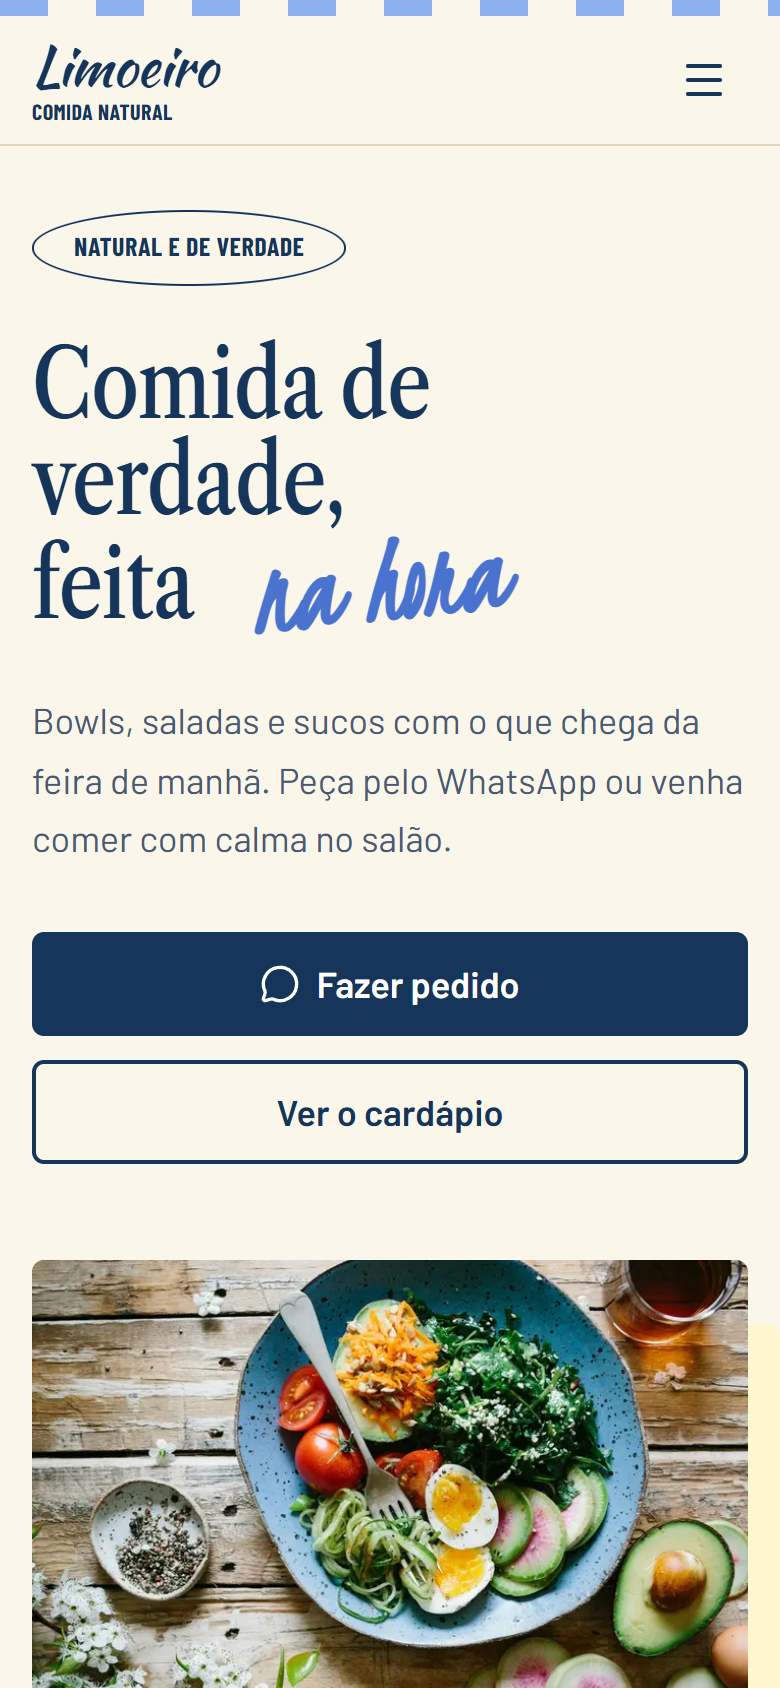
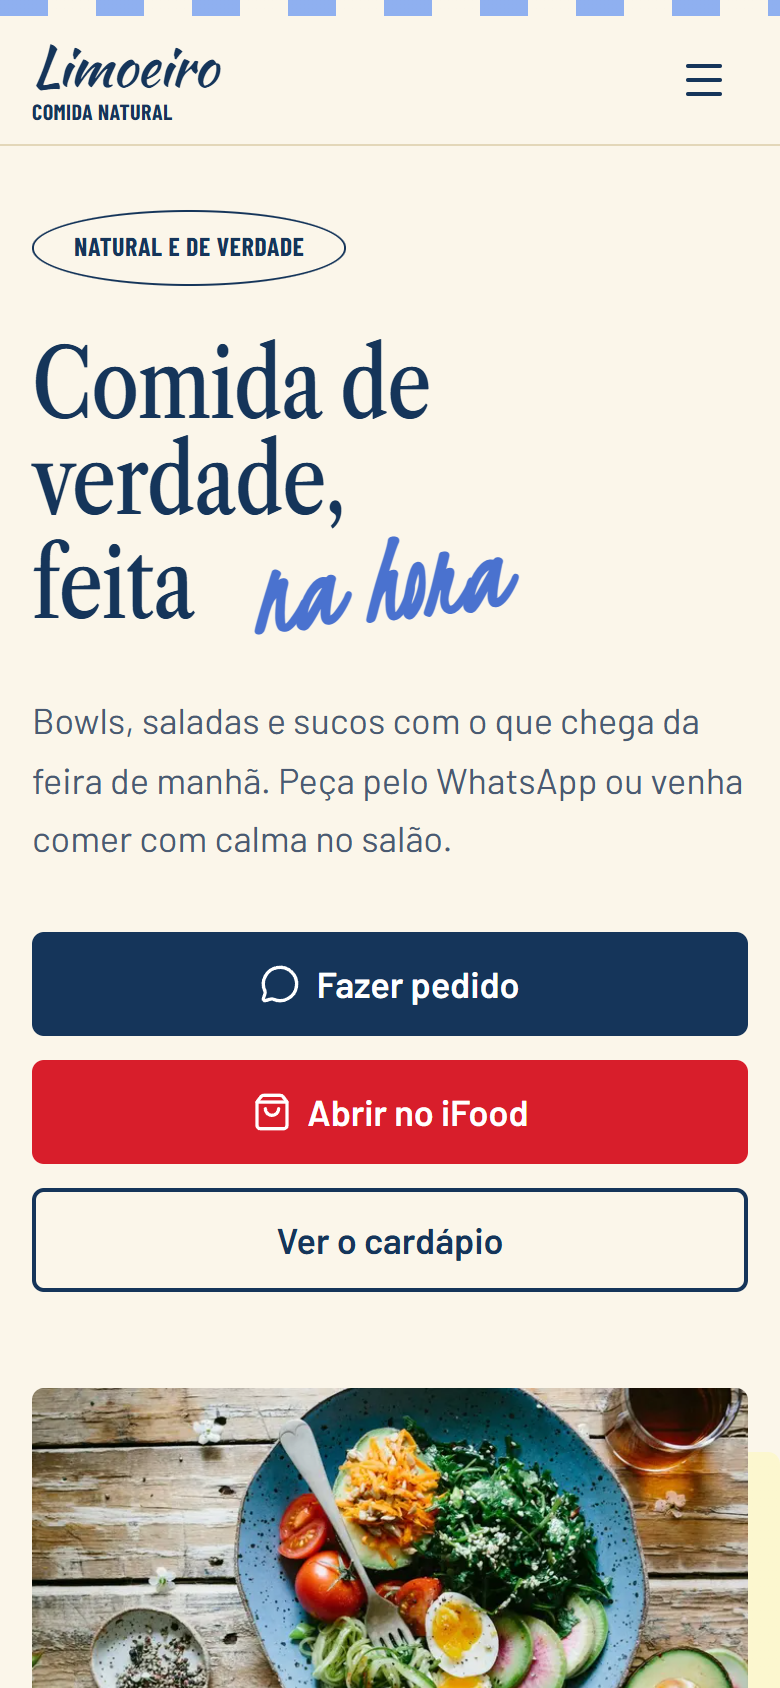
feat: botão Abrir no iFood no topo do restaurante

Changed region(s): [[0.0308, 0.6161, 1.0, 1.0]]

diff --git a/app/restaurante/page.tsx b/app/restaurante/page.tsx
@@ -1,4 +1,4 @@
-import { ArrowRight } from "lucide-react";
+import { ArrowRight, ShoppingBag } from "lucide-react";
 import type { Metadata, Viewport } from "next";
 import Image from "next/image";
 import { BotaoWhatsApp } from "@/components/BotaoWhatsApp";
@@ -82,6 +82,18 @@ export default function PaginaRestaurante() {
                   rotuloDoNicho={dados.rotulo}
                   tamanho="grande"
                 />
+                {/* O vermelho do iFood (com ! para vencer o fundo da variante), um tom
+                    mais escuro para o texto branco passar de 4.5:1. */}
+                <Botao
+                  href={dados.delivery.url}
+                  externo
+                  tamanho="grande"
+                  className="bg-[#d81e2b]! text-white! hover:bg-[#b91824]!"
+                >
+                  <ShoppingBag aria-hidden className="size-5 shrink-0" />
+                  {dados.delivery.rotulo}
+                  <span className="sr-only"> (abre em nova aba)</span>
+                </Botao>
                 <Botao href="#cardapio" variante="secundario" tamanho="grande">
                   Ver o cardápio
                 </Botao>

diff --git a/data/restaurante.ts b/data/restaurante.ts
@@ -26,8 +26,8 @@ import wrapFrango from "@/public/imagens/restaurante/wrap-frango.jpg";
 import type { DadosDoRestaurante } from "./tipos";
 
 // Conteúdo fictício. Fotos do Unsplash (licença livre), salvas localmente,
-// com a origem gravada em cada arquivo. O link de delivery aponta para um
-// domínio de exemplo (example.com).
+// com a origem gravada em cada arquivo. O botão do iFood abre a página
+// inicial do iFood, como as redes do rodapé: a loja do cliente entra no lugar.
 
 export const restaurante: DadosDoRestaurante = {
   nicho: "restaurante",
@@ -55,8 +55,8 @@ export const restaurante: DadosDoRestaurante = {
     pedido: "Quero fazer um pedido.",
   },
   delivery: {
-    rotulo: "Pedir pelo delivery",
-    url: "https://delivery.example.com/restaurante",
+    rotulo: "Abrir no iFood",
+    url: "https://www.ifood.com.br/",
   },
   imagemPrincipal: {
     src: principal,
